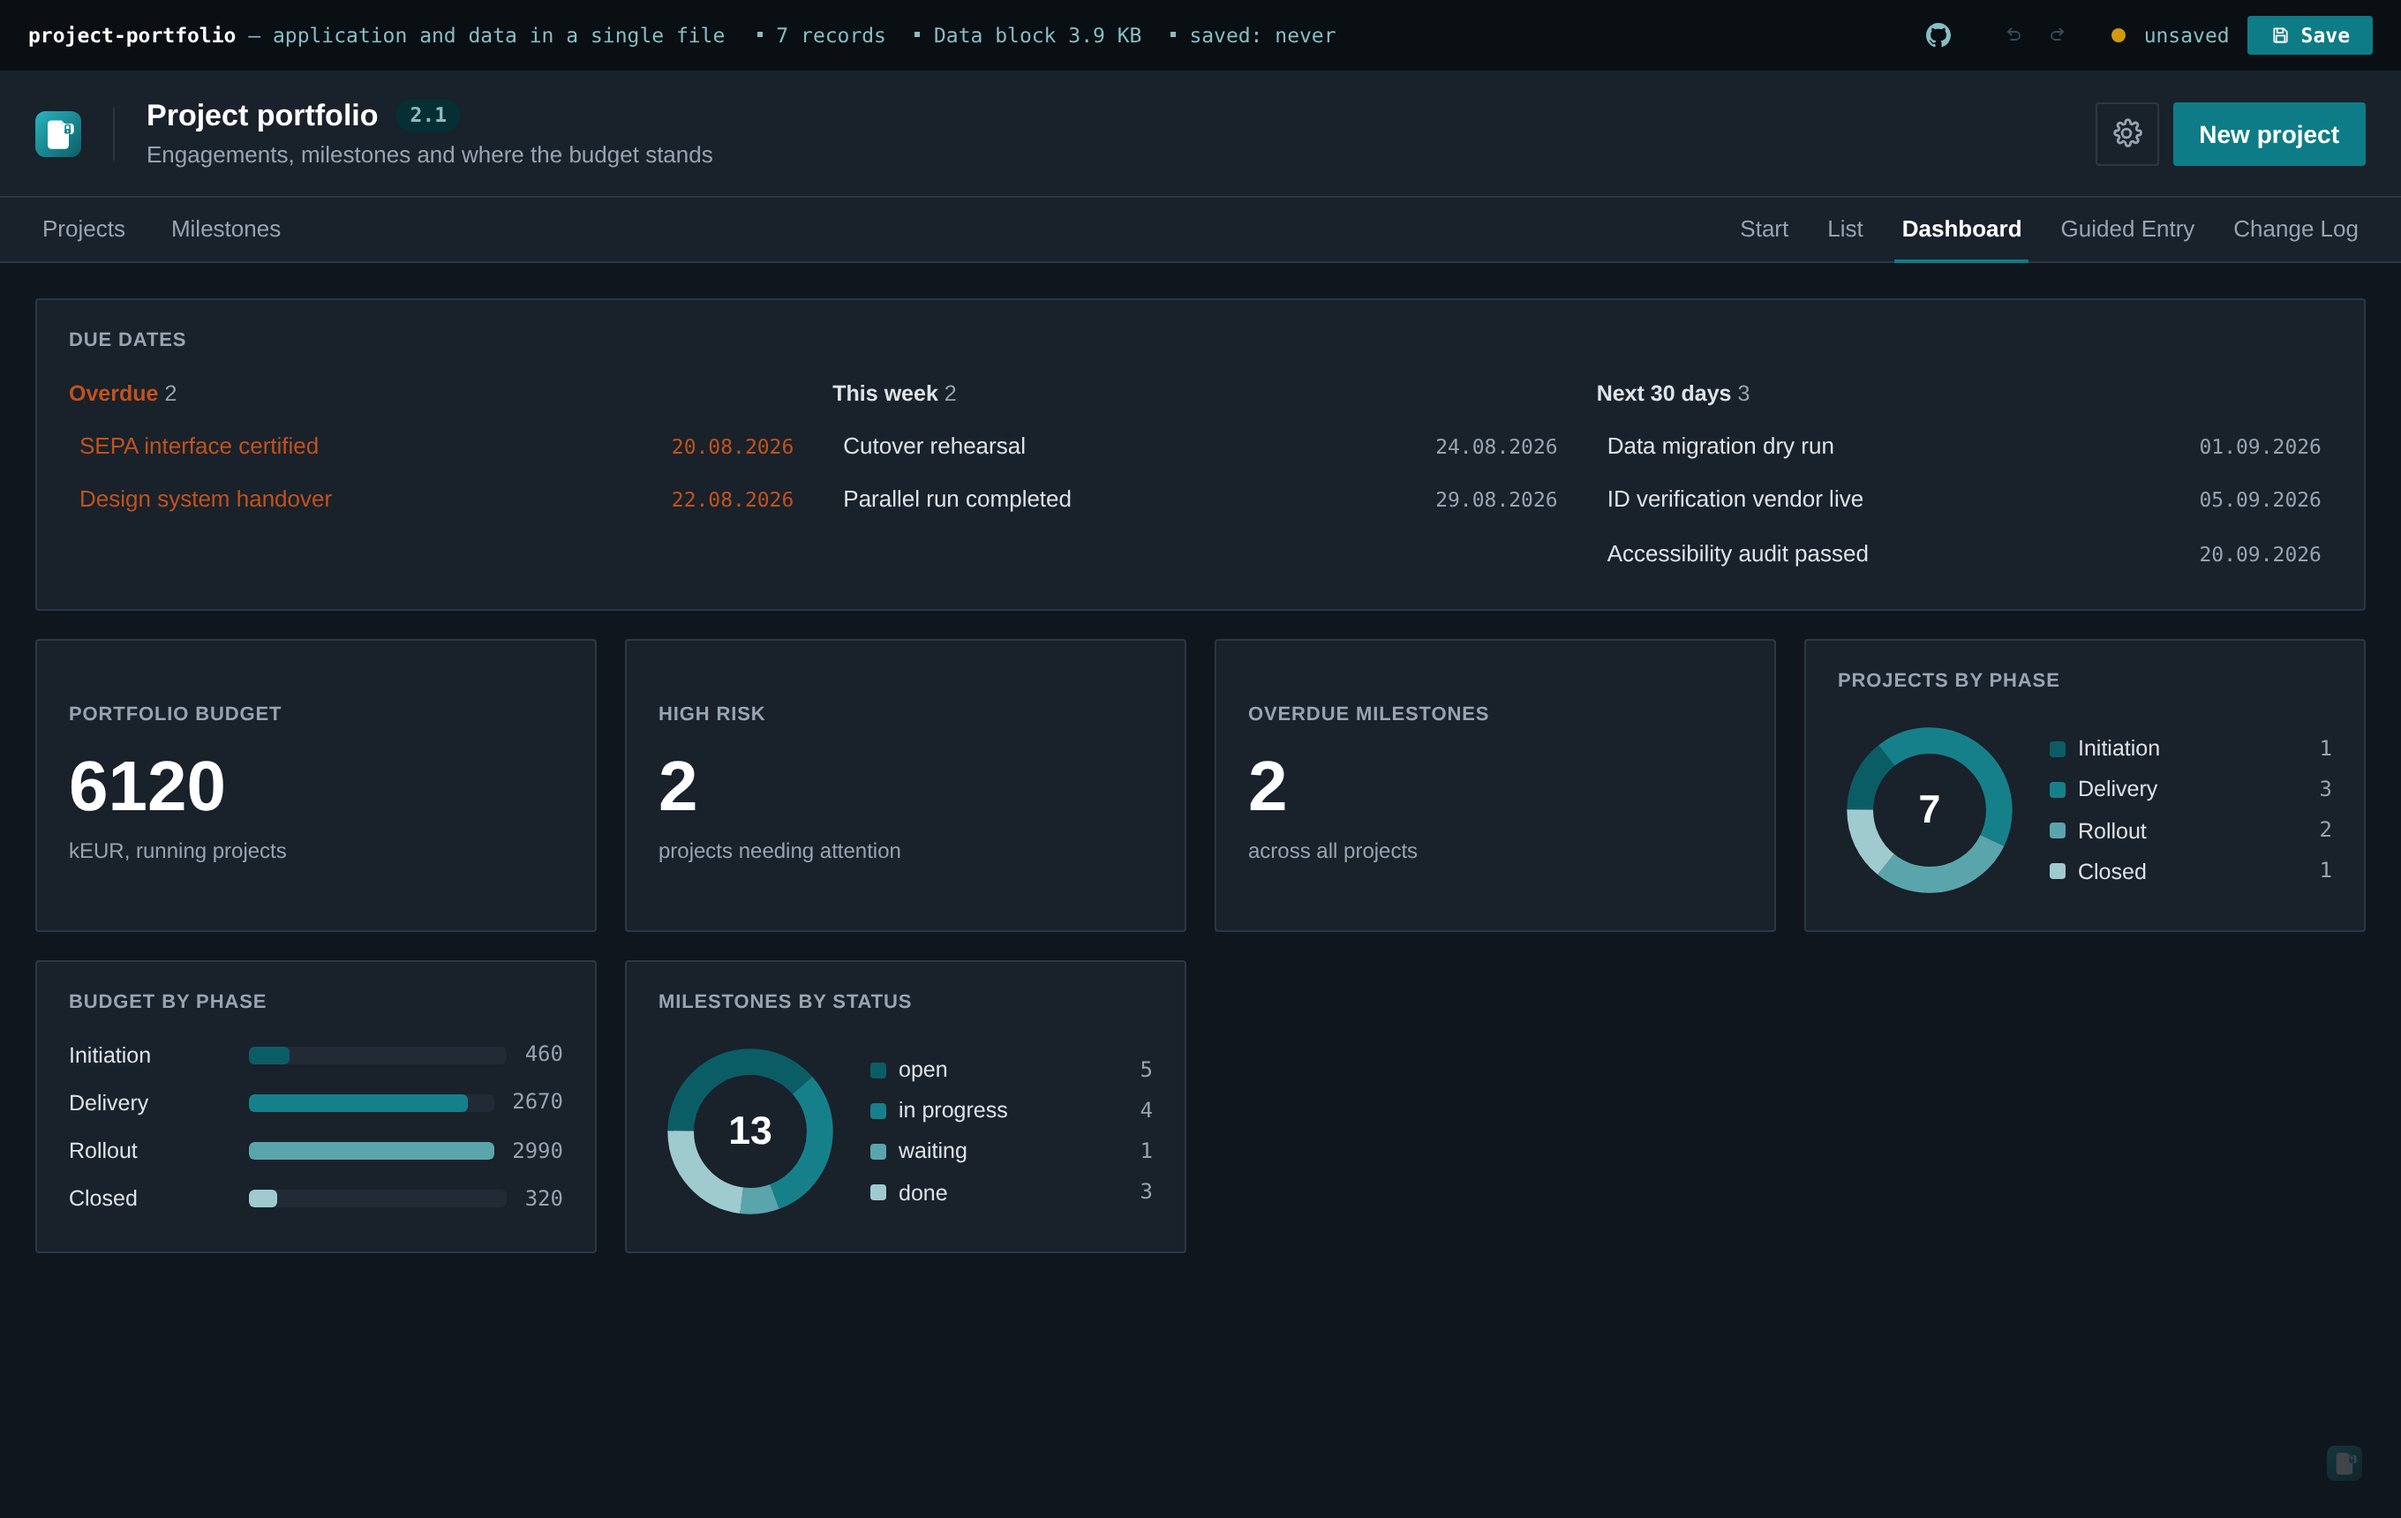
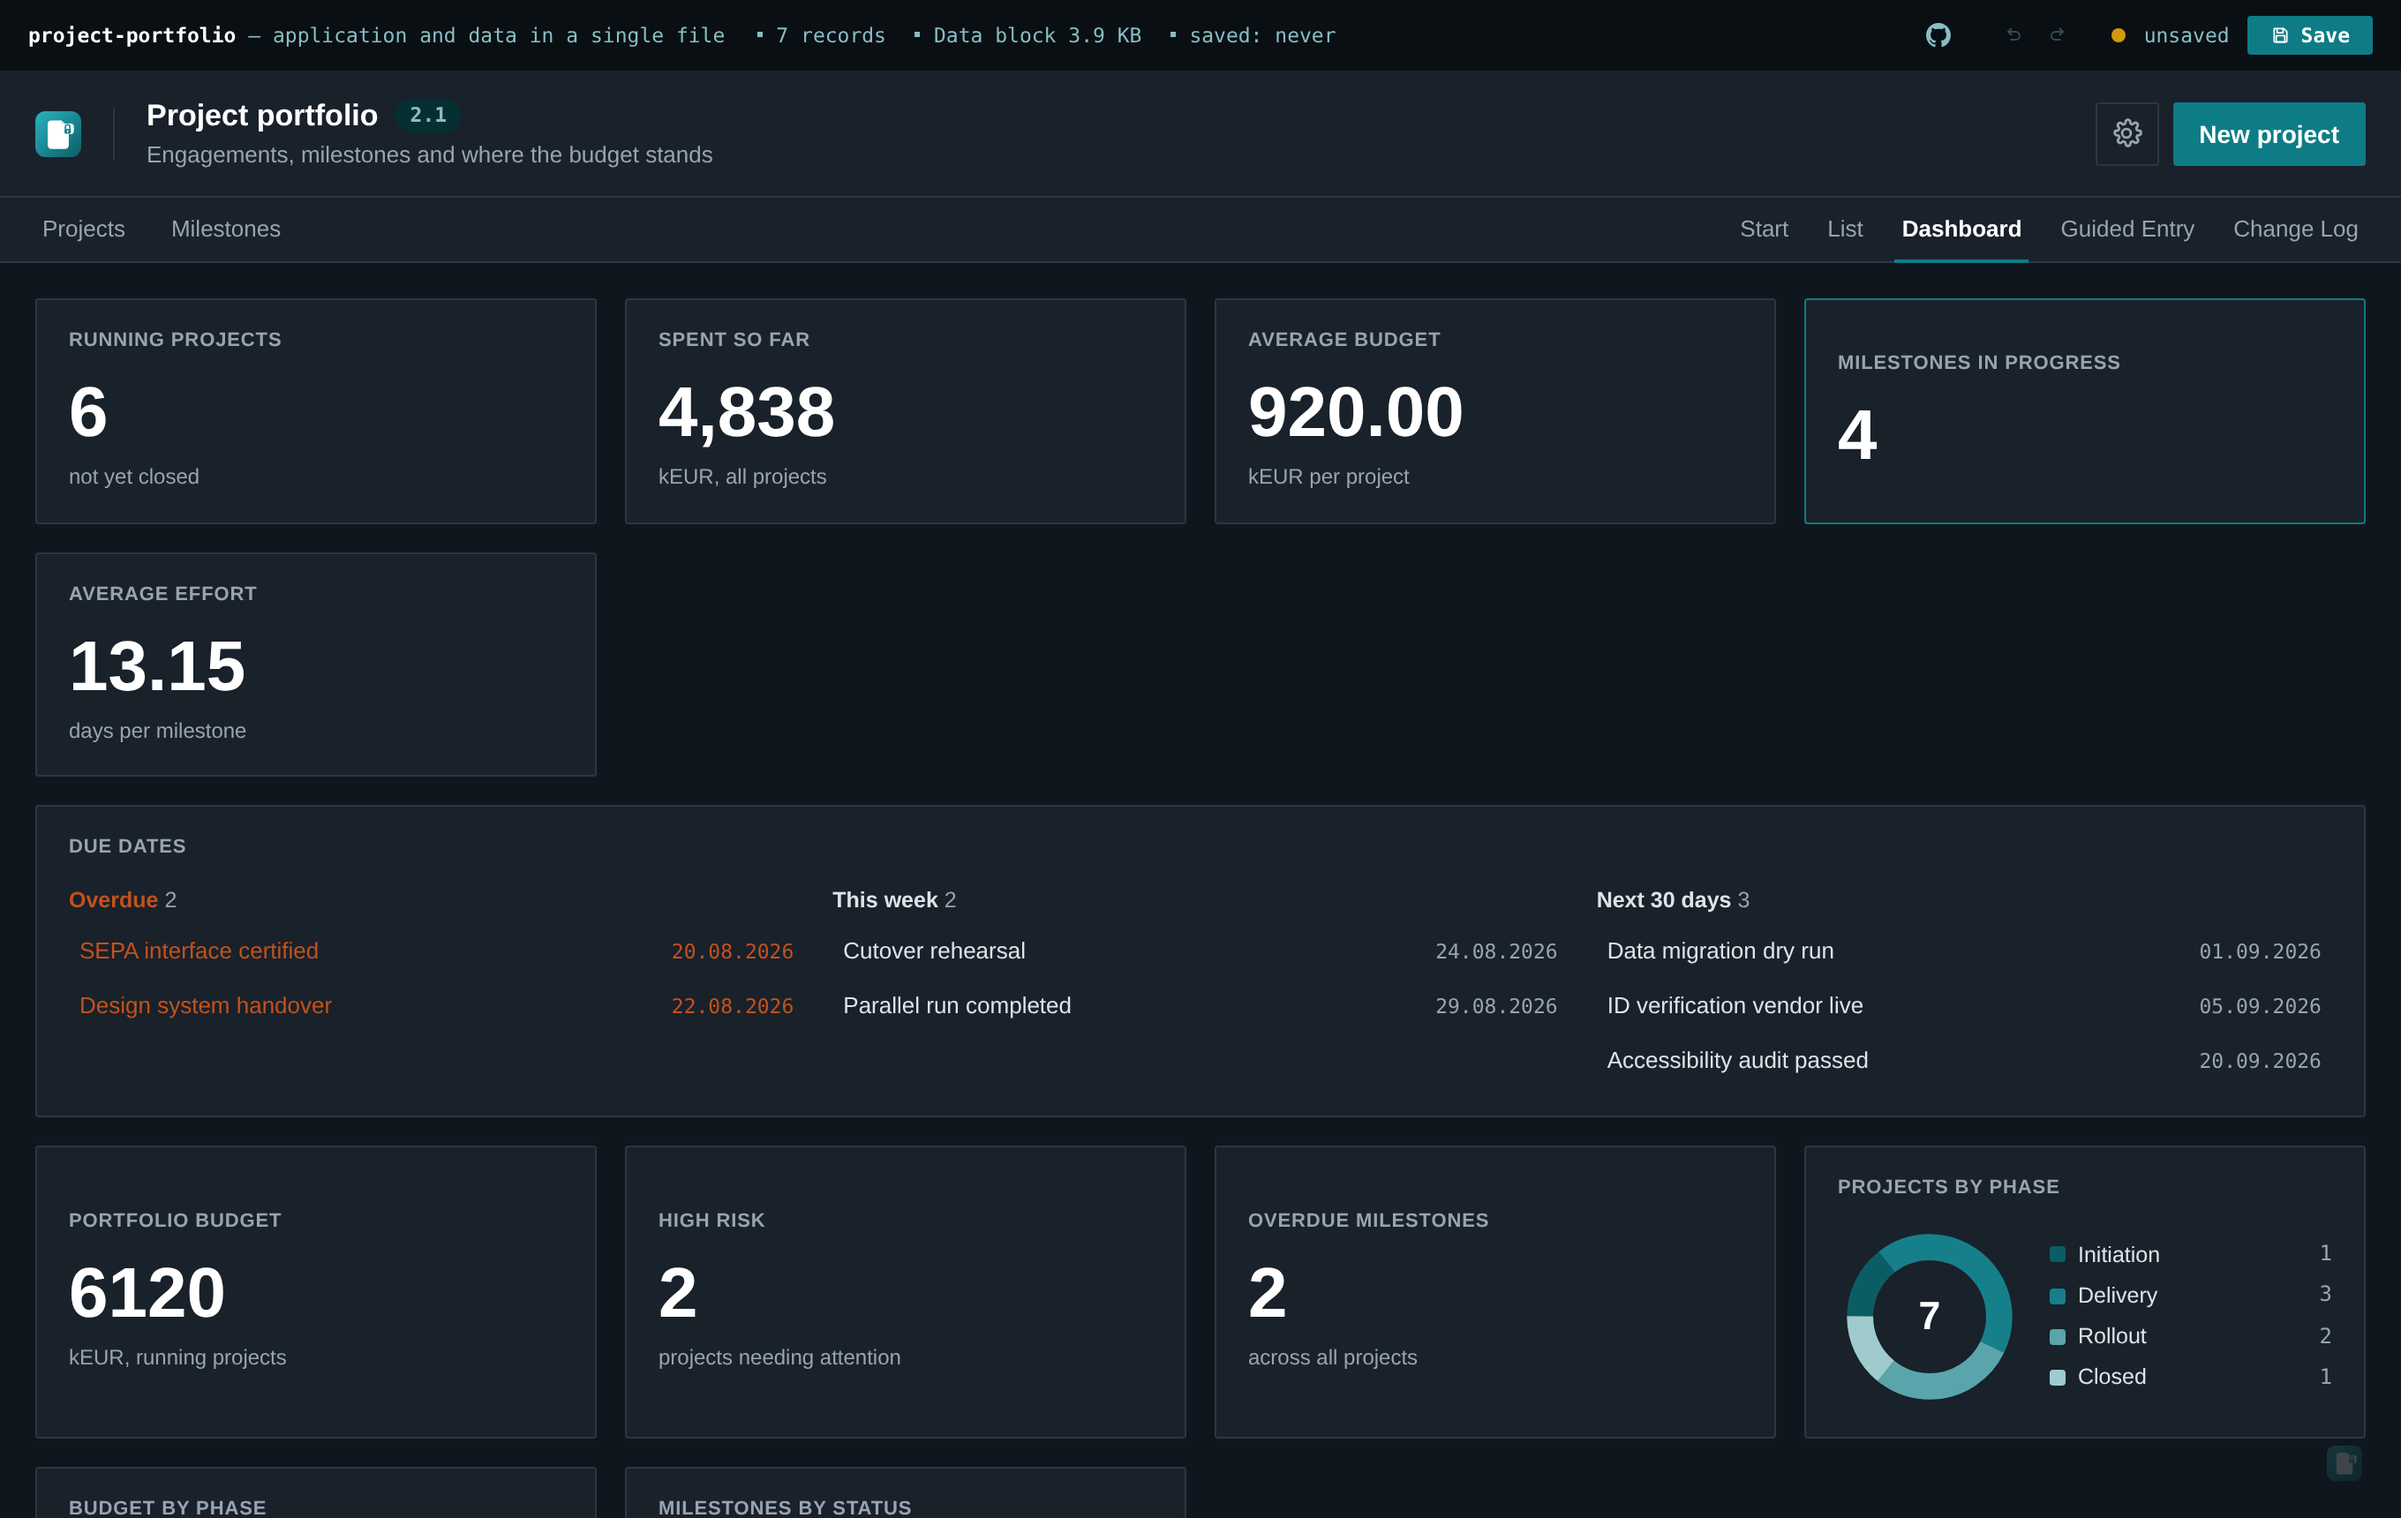
OPEN-48: Doku auf Main-Stand gebracht — Kennzahl-Kacheln im Dashboard-Bild, Dateigröße korrigiert, Domänenzahl auf acht gestellt (#40)
- Screenshots neu gezogen (npm run screenshots): dashboard.png und
  dashboard-dark.png zeigen jetzt die Kennzahl-Kacheln aus #35, home.png
  die aktualisierte Startseite des Portfolio-Beispiels. list.png und die
  übrigen Bilder bleiben unverändert — die zugehörigen Ansichten haben
  sich seit dem letzten Zug nicht geändert.
- Dateigröße in allen sieben READMEs auf ~240 KB gestellt (bisher 90 KB
  in EN/DE, 160 KB in den fünf kurzen) — dist/index.html ist nach der
  FR-Runde auf 242 KB gewachsen, die alten Angaben waren überholt.
- README.md: "seven complete domains, each published as a live demo"
  korrigiert auf acht Domänen, davon sechs als Live-Demo veröffentlicht
  (risk-register und suppliers-certificates sind Starter, nicht publiziert).
- Feature-Abgleich FR-Runde: Suche/Filter, sortierbare Spalten,
  Duplizieren, Massenpflege sind in README.md und README.de.md bereits
  gleichwertig beschrieben, je ein Aufzählungspunkt steht in den fünf
  kurzen READMEs — keine Lücke gefunden. Kennzahl-Kacheln laufen über
  OPEN-36/OPEN-44, hier nicht gedoppelt.
- AGENTS.md/CLAUDE.md unverändert (byteidentisch geprüft): kein
  Framework-Vertrag betroffen. SKILL.md geprüft: rein Ablauf, kein
  Schemawissen — einzige Anmerkung (examples-Zählung) im Issue-Kommentar.

diff --git a/README.md b/README.md
@@ -98,7 +98,7 @@ dashboard · CSV import · change log · version numbers.**
 
 ## What you get
 
-- **One file.** ~90 KB, self-contained. Double-click, it runs. Pull the network cable, it still runs
+- **One file.** ~240 KB, self-contained. Double-click, it runs. Pull the network cable, it still runs
   — the only thing it would miss is the [usage counter](#the-usage-counter), which is one visible
   setting away from off.
 - **The file is the database.** Save writes a new HTML file with the records embedded. No backend,
@@ -216,8 +216,8 @@ zero is usually a real answer.
 
 That schema alone produces the table columns, the edit form, the sidebar filters, the CSV export,
 the instructions sent to the AI model and the validation of anything the model proposes back.
-`examples/` holds **seven complete domains**, each published as a
-[live demo](https://m-dohmen.github.io/openToolbox/demos/). Copy the closest one over
+`examples/` holds **eight complete domains**, six of them published as
+[live demos](https://m-dohmen.github.io/openToolbox/demos/). Copy the closest one over
 `src/domain.js` and rebuild to watch the entire app change — that is usually faster than writing a
 schema from a blank file. `risk-register.domain.js` is the plainest starting point.
 
@@ -903,7 +903,7 @@ src/settings.jsx       settings page
 src/dashboard.jsx      dashboard tiles (stat, bar, donut) — no charting library
 src/hint.jsx           the example-prompt boxes
 plugin/                installable skill for Claude Code and Codex (see plugin/README.md)
-examples/              seven complete domains, ready to copy over src/domain.js
+examples/              eight complete domains, ready to copy over src/domain.js
 docs/demos/            the built demos, committed so they can be linked and downloaded
 scripts/demos.mjs      the demo list: example, colours, start page, blurb
 scripts/build-demo.mjs builds every entry of that list into docs/demos/<slug>/

diff --git a/README.pt.md b/README.pt.md
@@ -46,7 +46,7 @@ larguras em CSS e o anel é um único círculo SVG. As duas visões imprimem com
 
 ## O que você recebe
 
-- **Um arquivo.** Cerca de 160 KB, autossuficiente. Duplo clique e funciona. Tire o cabo de rede e
+- **Um arquivo.** Cerca de 240 KB, autossuficiente. Duplo clique e funciona. Tire o cabo de rede e
   continua funcionando — a única coisa que faltaria é o [contador de aberturas](#o-contador-de-aberturas),
   e ele está a um interruptor visível de ser desligado.
 - **O arquivo é o banco de dados.** Salvar grava um novo HTML com os registros embutidos. Sem

diff --git a/README.es.md b/README.es.md
@@ -46,7 +46,7 @@ son anchuras CSS y el anillo es un único círculo SVG. Ambas vistas se imprimen
 
 ## Qué incluye
 
-- **Un archivo.** Unos 160 KB, autocontenido. Doble clic y funciona. Desconecta el cable de red y
+- **Un archivo.** Unos 240 KB, autocontenido. Doble clic y funciona. Desconecta el cable de red y
   sigue funcionando; lo único que echaría en falta es el [contador de aperturas](#el-contador-de-aperturas),
   y está a un interruptor visible de quedar apagado.
 - **El archivo es la base de datos.** Guardar escribe un nuevo HTML con los registros incrustados.

diff --git a/README.de.md b/README.de.md
@@ -113,7 +113,7 @@ Dashboard · CSV-Import · Änderungsprotokoll · Versionsnummern.**
 
 ## Was drin ist
 
-- **Eine Datei.** Rund 90 KB, in sich geschlossen. Doppelklick, sie läuft. Netzwerkkabel ziehen, sie
+- **Eine Datei.** Rund 240 KB, in sich geschlossen. Doppelklick, sie läuft. Netzwerkkabel ziehen, sie
   läuft weiter — das Einzige, was ihr dann fehlt, ist der [Aufrufzähler](#der-aufrufzähler), und der
   ist einen sichtbaren Schalter vom Aus entfernt.
 - **Die Datei ist die Datenbank.** Speichern schreibt eine neue HTML-Datei mit eingebetteten

diff --git a/README.fr.md b/README.fr.md
@@ -48,7 +48,7 @@ s'impriment en un PDF propre.
 
 ## Ce que vous obtenez
 
-- **Un fichier.** Environ 160 Ko, autonome. Double-clic, il fonctionne. Débranchez le réseau, il
+- **Un fichier.** Environ 240 Ko, autonome. Double-clic, il fonctionne. Débranchez le réseau, il
   fonctionne toujours — la seule chose qui lui manquerait est le [compteur d'ouvertures](#le-compteur-douvertures),
   à un interrupteur visible de l'arrêt.
 - **Le fichier est la base de données.** L'enregistrement écrit un nouveau HTML contenant les
